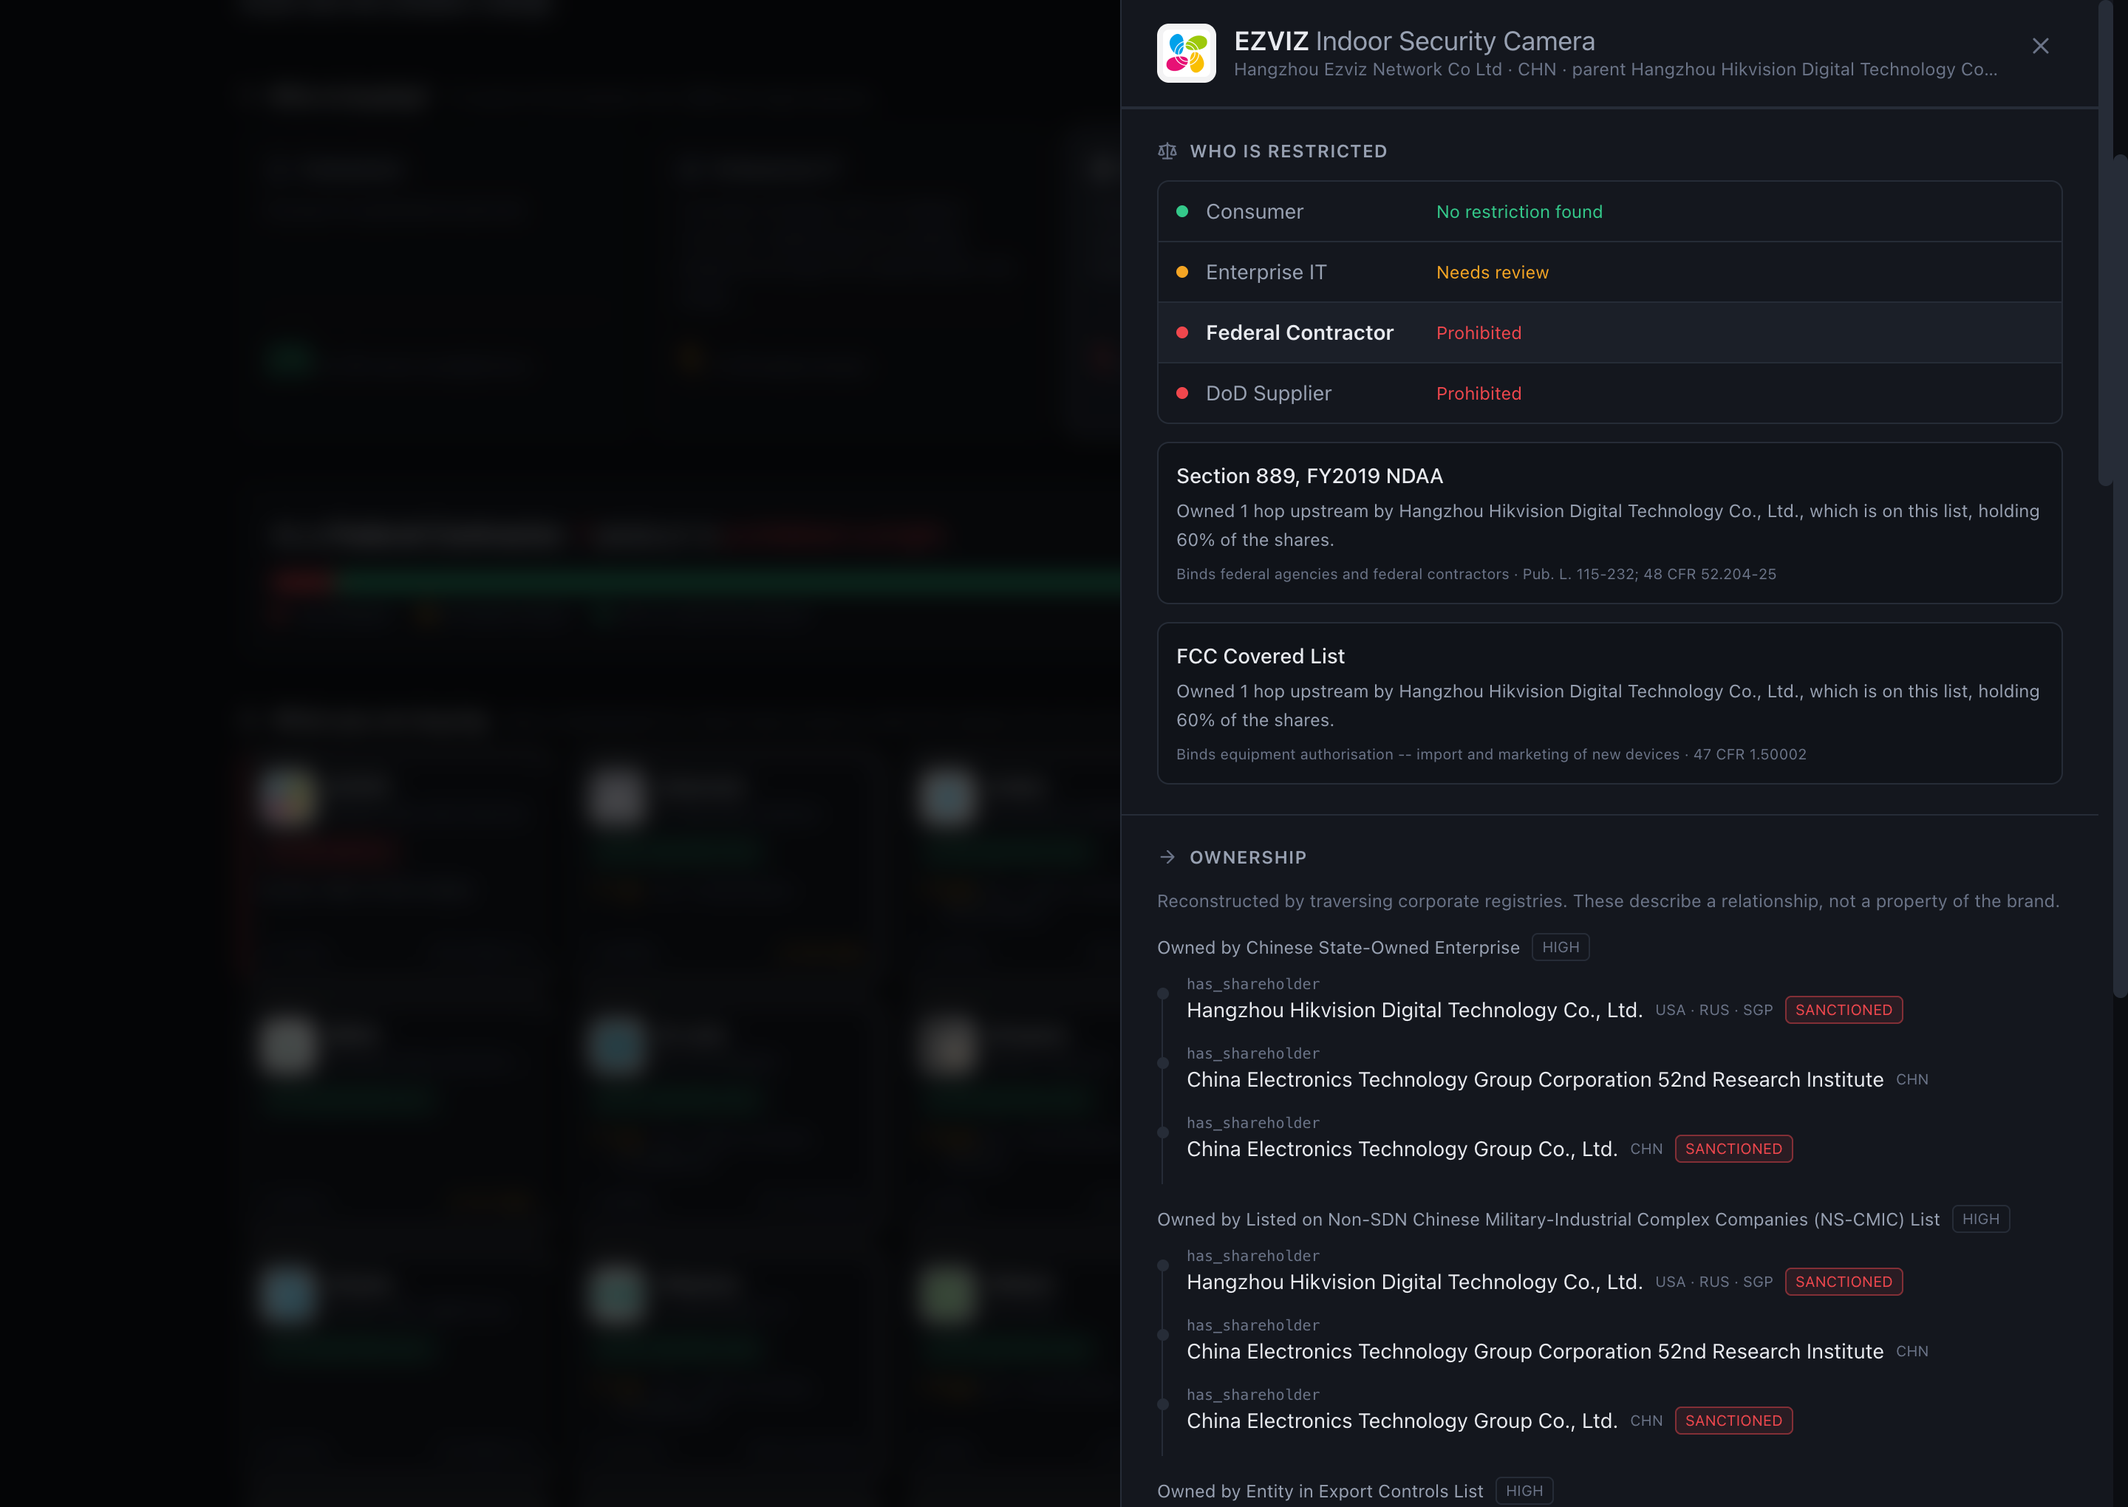
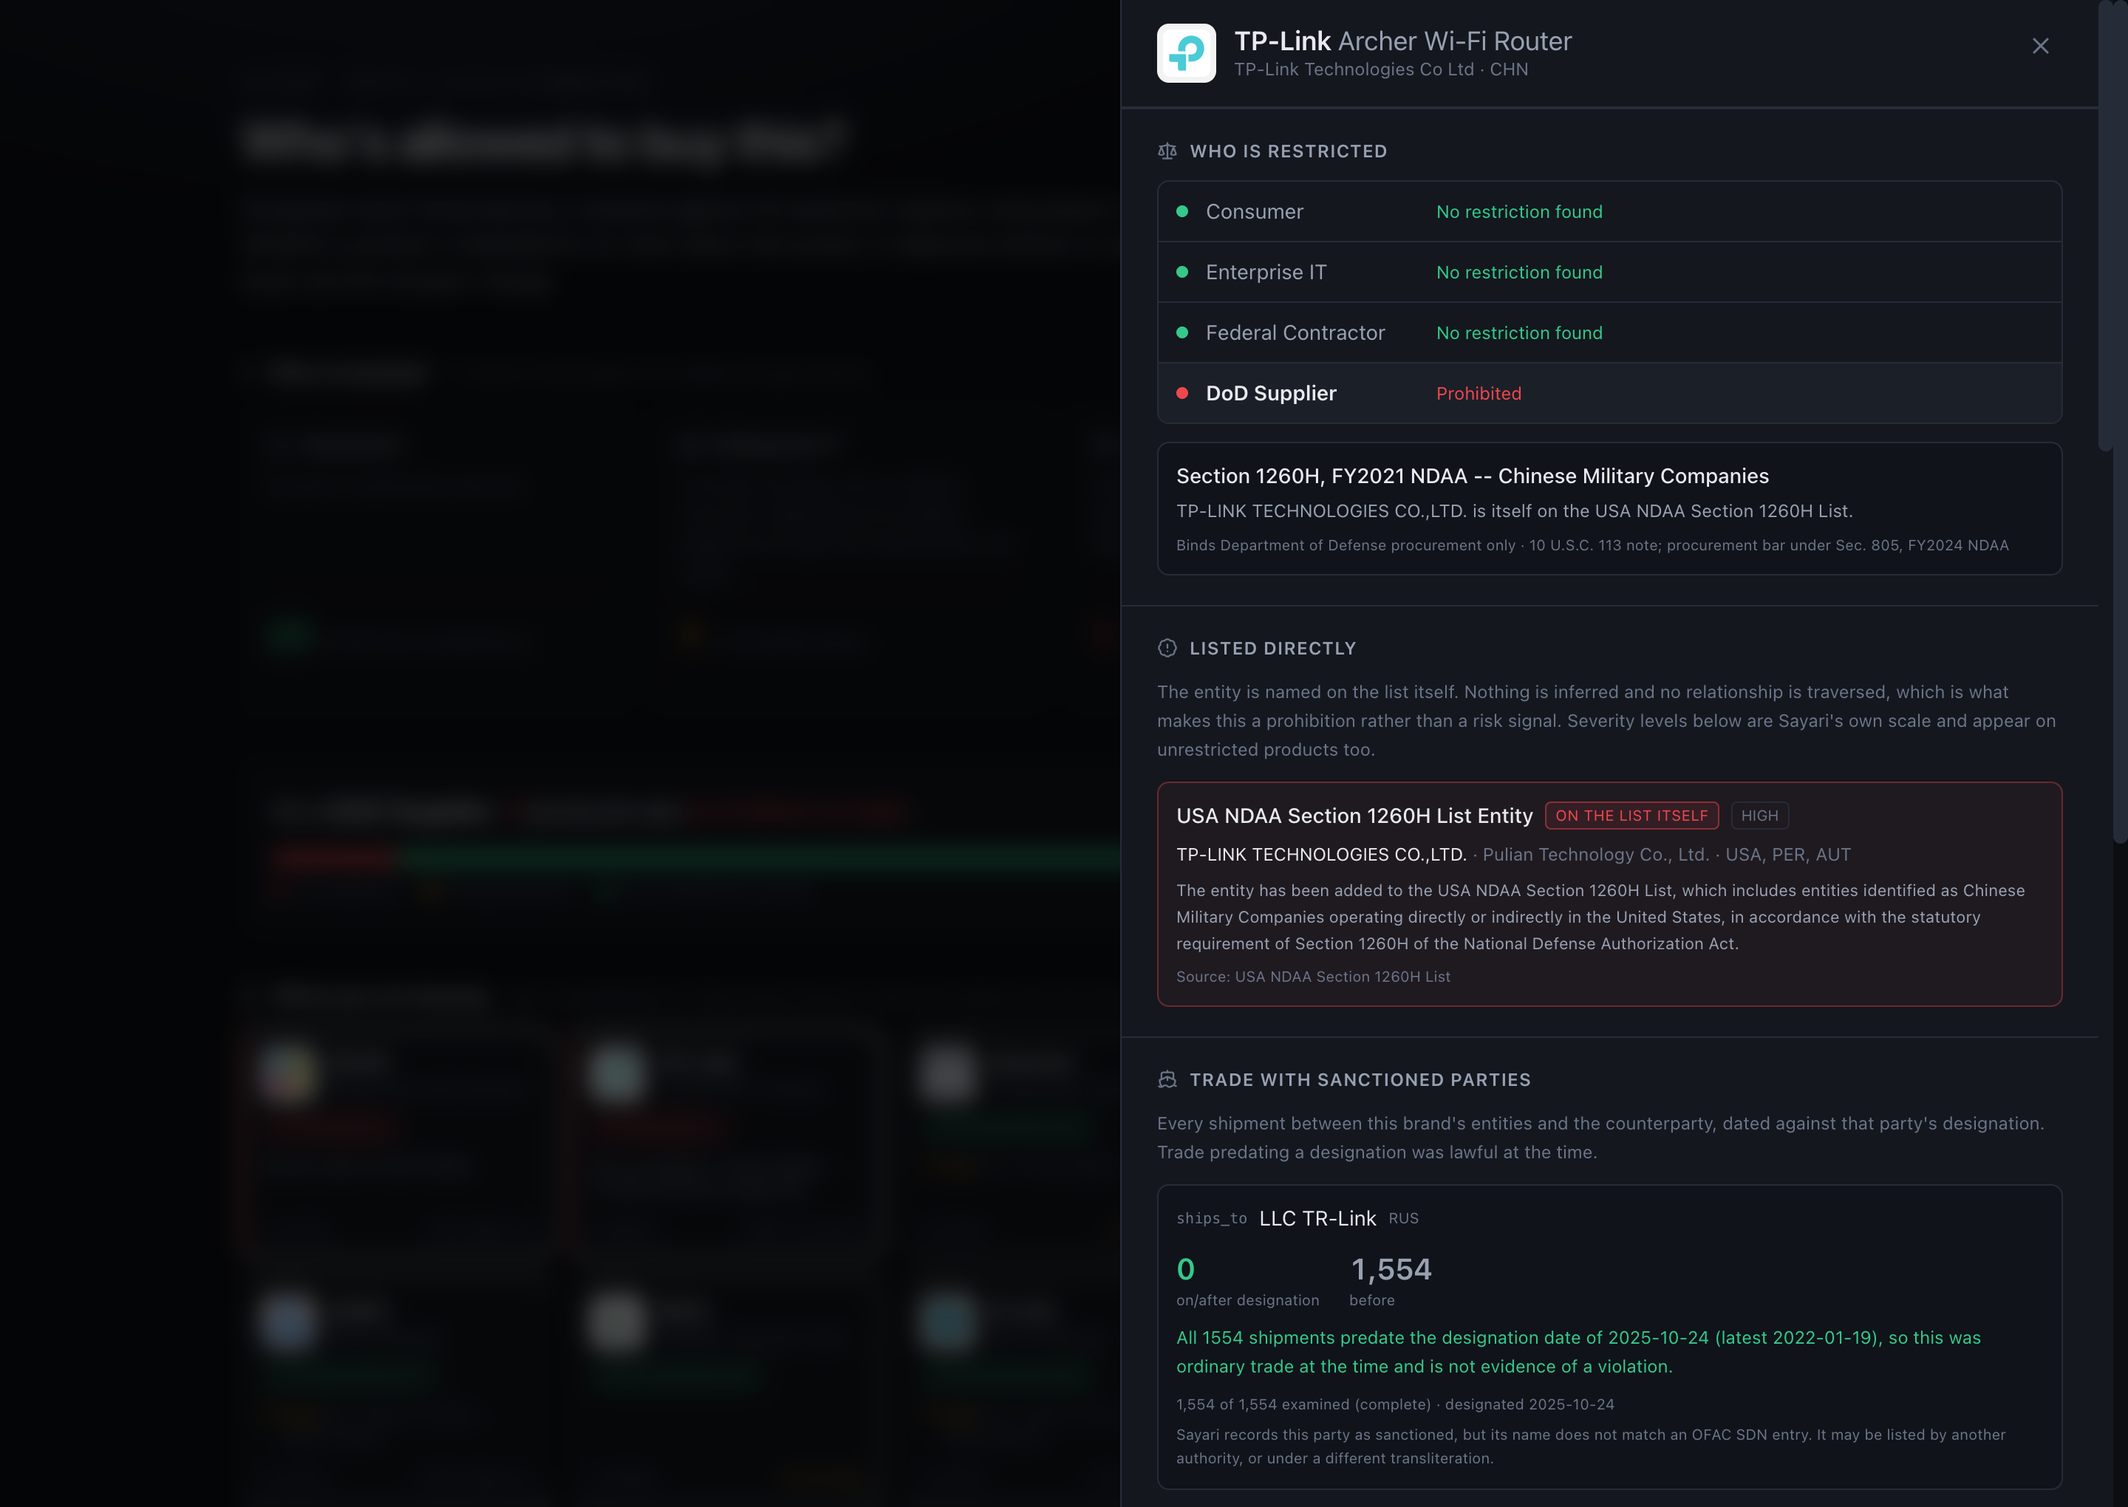
readme: data-lineage diagram, buyer-tier differentiation, card polish (#9)
* ui: make the point of switching buyer visible

The page was 25 tiles that changed colour for no stated reason. Rebuilt on
Tailwind, lucide and framer-motion so the argument is the interface:

- The buyer picker shows each profile's flagged count *before* you select it.
  Seeing 0 next to Consumer and 7 next to DoD Supplier is the whole thesis, and
  it is now legible without clicking anything.
- A plain-English answer sits above the grid and its bar animates between
  profiles, because a number quietly going 0 -> 7 is easy to miss.
- With nothing flagged the page said nothing useful, so it now names the next
  step: "Switch to Federal Contractor and seven of them become a problem --
  because Section 889 binds contractors, not households."
- Prohibited is split out from diligence on the picker. An outright bar is a
  different kind of fact from a review item.
- Cards carry brand logos, sit five across so 25 fills five rows with no orphan,
  and the ones whose answer just changed are briefly ringed.
- The detail panel is sectioned with a verdict matrix showing all four buyers at
  once, since the contrast between rows is the finding.

Also fixes the owner reason text, which read "X is 1 ownership hop upstream and
is listed as X" -- the same company named twice.

Verified by driving real Chrome with Playwright, not headless: 25 cards in
[5,5,5,5,5], 25 logos, all four profiles, both detail panels, 0 console errors.

* readme + make the four buyer tiers actually differ
[…]

diff --git a/frontend/src/components/DetailPanel.tsx b/frontend/src/components/DetailPanel.tsx
@@ -1,6 +1,7 @@
 import { AnimatePresence, motion } from "framer-motion";
 import {
   AlertTriangle,
+  BadgeAlert,
   ArrowRight,
   Check,
   ExternalLink,
@@ -12,6 +13,7 @@ import {
 import type { Chain, Persona, ProductDetail } from "../types";
 import { STATUS } from "../status";
 import { logoFor } from "../brands";
+import { LISTING_EFFECT } from "../risk";
 
 function Section({
   icon: Icon,
@@ -88,6 +90,17 @@ export function DetailPanel({
   const verdict = detail.verdicts[persona];
   const seed = detail.flags.filter((f) => f.risk_type === "seed");
   const network = detail.flags.filter((f) => f.risk_type !== "seed");
+  // A seed flag means the entity is on the list itself, with nothing in between.
+  // That is the strongest evidence in the dataset, but it has no chain to draw,
+  // so without its own block it reads as weaker than an inherited listing purely
+  // because there is less to look at. TP-Link is exactly this case.
+  const directListings = detail.flags.filter(
+    (f) =>
+      f.risk_type === "seed" &&
+      detail.regime_hits.some(
+        (h) => h.how === "seed_risk" && h.factor === f.id,
+      ),
+  );
   const ownership = detail.flags.flatMap((f) =>
     (f.chains ?? [])
       .filter((c) => c.kind === "ownership" && c.hops.some((h) => h.label))
@@ -197,6 +210,80 @@ export function DetailPanel({
               </p>
             )}
           </Section>
+
+          {directListings.length > 0 && (
+            <Section
+              icon={BadgeAlert}
+              title="Listed directly"
+              hint="The entity is named on the list itself. Nothing is inferred and no relationship is traversed, which is what makes this a prohibition rather than a risk signal."
+            >
+              {directListings.map((flag) => {
+                const carriers = detail.family.filter((m) =>
+                  flag.carried_by.includes(m.id),
+                );
+                const hit = detail.regime_hits.find(
+                  (h) => h.how === "seed_risk" && h.factor === flag.id,
+                );
+                const effect = hit ? LISTING_EFFECT[hit.regime] : undefined;
+                return (
+                  <div
+                    key={flag.id}
+                    className="mb-3 rounded-lg border border-stop/35 bg-stop/5 p-3 last:mb-0"
+                  >
+                    {/* The badge states what the listing DOES, not that it
+                        exists -- the paragraph already says the entity is on the
+                        list. Sayari's severity level is deliberately absent here:
+                        "high" appears on unrestricted products throughout the
+                        grid, so showing it beside a prohibition would imply the
+                        severity scale decides the verdict. It does not. */}
+                    <div className="flex flex-wrap items-center gap-2">
+                      <span className="text-sm font-medium text-fg">
+                        {flag.label ?? flag.id}
+                      </span>
+                      {effect && (
+                        <span className="rounded border border-stop/45 bg-stop/10 px-1.5 py-px text-[10px] uppercase tracking-wide text-stop">
+                          {effect.badge}
+                        </span>
+                      )}
+                    </div>
+
+                    {carriers.map((m) => (
+                      <p key={m.id} className="mt-2 text-xs text-fg">
+                        {m.label}
+                        {m.translated_label && m.translated_label !== m.label && (
+                          <span className="text-faint"> · {m.translated_label}</span>
+                        )}
+                        <span className="text-faint">
+                          {" "}
+                          · {m.countries.slice(0, 3).join(", ")}
+                        </span>
+                      </p>
+                    ))}
+
+                    {effect && (
+                      <p
+                        className={`mt-2 text-xs leading-relaxed ${
+                          effect.isSanction ? "text-stop" : "text-check"
+                        }`}
+                      >
+                        {effect.effect}
+                      </p>
+                    )}
+                    {flag.description && (
+                      <p className="mt-2 text-[11px] leading-relaxed text-faint">
+                        {flag.description}
+                      </p>
+                    )}
+                    {flag.sources.length > 0 && (
+                      <p className="mt-1.5 text-[10px] text-faint">
+                        Source: {flag.sources.join("; ")}
+                      </p>
+                    )}
+                  </div>
+                );
+              })}
+            </Section>
+          )}
 
           {ownership.length > 0 && (
             <Section

diff --git a/frontend/src/risk.ts b/frontend/src/risk.ts
@@ -28,3 +28,40 @@ export const LEVEL_TONE: Record<string, string> = {
 export function categoryLabel(slug: string): string {
   return CATEGORY_LABELS[slug] ?? slug.replace(/_/g, " ");
 }
+
+/** What being on each list actually does, and whether it is a sanction.
+ *
+ *  "On the list" is not self-explanatory: §1260H and §889 are procurement
+ *  prohibitions, not sanctions, and nothing is blocked or frozen by either. Only
+ *  OFAC SDN carries blocking sanctions. Saying so is the difference between a
+ *  reader understanding the finding and assuming the worst one.
+ */
+export const LISTING_EFFECT: Record<
+  string,
+  { badge: string; effect: string; isSanction: boolean }
+> = {
+  section_1260h: {
+    badge: "Bars DoD procurement",
+    effect:
+      "The Department of Defense may not procure from this entity. It is not a sanction: nothing is blocked or frozen, imports are unaffected, and anyone outside DoD procurement may buy freely.",
+    isSanction: false,
+  },
+  section_889: {
+    badge: "Bars federal contractors",
+    effect:
+      "Federal agencies and their contractors may not use this equipment, across the contractor's entire business rather than only its federal work. It is not a sanction and does not restrict anyone else.",
+    isSanction: false,
+  },
+  fcc_covered: {
+    badge: "Bars new FCC authorisation",
+    effect:
+      "New equipment from this entity cannot receive FCC authorisation, so it cannot lawfully be imported or marketed as new. Existing devices are unaffected and it is not a sanction.",
+    isSanction: false,
+  },
+  ofac_sdn: {
+    badge: "Blocking sanctions",
+    effect:
+      "Property is blocked and US persons are prohibited from dealing with this entity. This one is a sanction.",
+    isSanction: true,
+  },
+};

diff --git a/backend/pipeline/classify.py b/backend/pipeline/classify.py
@@ -135,7 +135,32 @@ def _verdict_for(persona: dict[str, Any], row: dict[str, Any]) -> dict[str, Any]
                    if after else "All of them predate the designation date.")
             )
         else:
-            detail = f"Sayari records this entity on the list directly ({hit['factor']})"
+            # A seed listing is the strongest evidence there is: the entity is on
+            # the list itself, not reached through anything. Say which entity and
+            # which list, otherwise it reads as weaker than an ownership chain
+            # purely because there is no chain to draw.
+            # Prefer the registry label over the translation here. A family
+            # member is the brand's own entity and is usually Latin-named, and
+            # TP-Link's translation is "Pulian Technology Co., Ltd." -- correct,
+            # but unrecognisable to a reader looking at a TP-Link card.
+            # Translations matter for chain hops, which are often Chinese
+            # registry entries; they do not help here.
+            listed = next(
+                (m.get("label") or m.get("translated_label")
+                 for m in row.get("family", [])
+                 if m["id"] in (hit.get("entity_ids") or [])),
+                None,
+            )
+            source = next(
+                (", ".join(f["sources"]) for f in row.get("flags", [])
+                 if f["id"] == hit.get("factor") and f.get("sources")),
+                hit["authority"],
+            )
+            detail = (
+                f"{listed} is itself on the {source}."
+                if listed else
+                f"This entity is itself on the {source}."
+            )
         reasons.append({
             "authority": hit["authority"],
             "citation": hit["citation"],

diff --git a/README.md b/README.md
@@ -113,6 +113,105 @@ behind them is not.
 
 ---
 
+## How the data actually moves
+
+The diagram above is the shape of the system. This one is the lineage: which
+endpoint is called, what comes back, and what each field is used for.
+
+```mermaid
+flowchart LR
+    PROD["<b>data/products.json</b><br/>25 brands · aliases · anchors"]
+
+    subgraph R["① RESOLVE &nbsp;·&nbsp; 115 calls"]
+        direction TB
+        RES["<b>GET /v1/resolution</b><br/>×2 per name: with and<br/>without the address hint"]
+        SUP["<b>POST /v1/trade/search/suppliers</b><br/>the trade-side entity, which<br/>resolution alone never returns"]
+    end
+
+    ADJ["<b>② ADJUDICATE</b> · 0 calls<br/>126 kept · 114 rejected"]
+
+    subgraph E["③ ENRICH &nbsp;·&nbsp; 128 calls"]
+        direction TB
+        SUM["<b>GET /v1/entity_summary/:id</b><br/>×126, one per family member"]
+        ONT["<b>GET /v1/ontology/risk_factors</b><br/>×1 → 721 definitions"]
+        HOP["<b>GET /v1/entity_summary/:node</b><br/>ownership-chain hops only<br/>322 cached to disk"]
+    end
+
+    subgraph S["④ SANCTIONS &nbsp;·&nbsp; 24 calls"]
+        direction TB
+        RI["<b>GET /v1/entity/:id</b><br/>×12 counterparties<br/>attributes.risk_intelligence"]
+        SHIP["<b>POST /v1/trade/search/shipments</b><br/>×12 · limit 3000<br/>2,696 shipments, counted in full"]
+    end
+
+    subgraph X["⑤ EXTERNAL &nbsp;·&nbsp; the enrichment"]
+        direction TB
+        OFAC["<b>OFAC SDN.CSV</b><br/>live from Treasury<br/>18,575 records"]
+        SHARE["<b>GET /v1/entity/:id</b><br/>relationships_limit=50<br/>→ shares.percentage"]
+        ENC["<b>Encoded + cited</b><br/>FCC Covered · §889 · §1260H<br/>fcc.gov and dhs.gov return 403"]
+    end
+
+    OUT["<b>⑥ CLASSIFY</b> · 0 calls<br/>one verdict per buyer profile"]
+
+    PROD --> RES
+    PROD --> SUP
+    RES -->|"entity_id · score<br/>match_strength"| ADJ
+    SUP -->|"trade entity ids"| ADJ
+
+    ADJ -->|"126 entity ids"| SUM
+    SUM -->|"risk · trade_count<br/>countries · sanctioned"| E2["<b>risk split</b><br/>seed vs network<br/>262 deprecated dropped"]
+    ONT -->|"risk_type · level<br/>description · enabled"| E2
+    SUM -->|"risk.metadata<br/>.traversal_path"| CHAIN["<b>ownership chains</b><br/>EZVIZ → Hikvision → CETC"]
+    HOP -->|"label · sanctioned"| CHAIN
+
+    CHAIN --> RI
+    CHAIN --> SHIP
+    RI -->|"from_date =<br/>designation date"| DATED["<b>dated evidence</b><br/>0 of 2,696 shipments<br/>post-designation"]
+    SHIP -->|"arrival_date · hs_codes<br/>product_descriptions"| DATED
+
+    E2 --> OUT
+    DATED --> OUT
+    CHAIN --> SHARE
+    OFAC -->|"name → program<br/>RUSSIA-EO14024"| OUT
+    SHARE -->|"60% → meets §889<br/>subsidiary or affiliate"| OUT
+    ENC -->|"who each regime binds"| OUT
+
+    classDef file fill:#1d2433,stroke:#6b7a94,stroke-width:1px,color:#e8eaef
+    classDef apicall fill:#16202e,stroke:#4d82c0,stroke-width:1.5px,color:#e8eaef
+    classDef ext fill:#2a2119,stroke:#c98a34,stroke-width:1.5px,color:#e8eaef
+    classDef derived fill:#15251c,stroke:#34c98a,stroke-width:1.5px,color:#e8eaef
+    classDef logic fill:#171b23,stroke:#39435a,stroke-width:1px,color:#e8eaef
+    class PROD file
+    class RES,SUP,SUM,ONT,HOP,RI,SHIP,SHARE apicall
+    class OFAC,ENC ext
+    class E2,CHAIN,DATED derived
+    class ADJ,OUT logic
+```
+
+Reading it as a story:
+
+1. **Resolution is queried twice per name**, with and without the address hint. The
+   hint raises match strength but also *changes the result set*, and the trade-side
+   entity it drops is the one carrying the shipment history. Trade search finds that
+   node; resolution alone never returns it.
+2. **`match_strength` drives adjudication**, not the verdict. 114 candidates are
+   discarded here, each with a recorded reason.
+3. **`entity_summary.risk` is the core payload.** Its `metadata.traversal_path` is
+   the ownership chain, expressed as entity ids; resolving those ids is what turns
+   `owned_by_usa_bis_entity` into *EZVIZ → Hikvision → CETC*.
+4. **The ontology decides what counts.** `risk_type` splits seed from network, and
+   `enabled` removes 262 deprecated flags before anything is reported.
+5. **Designation dates come from `attributes.risk_intelligence`**, not from a
+   sanctions list. Without them the shipment data says "ships to a sanctioned party";
+   with them it says all 2,696 shipments predate the designation.
+6. **`shares.percentage` decides severity.** §889 covers a named company "and any
+   subsidiary or affiliate", so whether an ownership link is a bar depends on the
+   size of the stake. Hikvision holds 60% of EZVIZ.
+7. **OFAC SDN is the only list fetched live**, and it corroborates rather than
+   originates: Sayari says the counterparty is sanctioned, Treasury's file confirms
+   it by name and supplies the programme (`RUSSIA-EO14024`).
+
+---
+
 ## What the enrichment adds
 
 Sayari says what an entity is connected to. The external regimes say **who is barred
